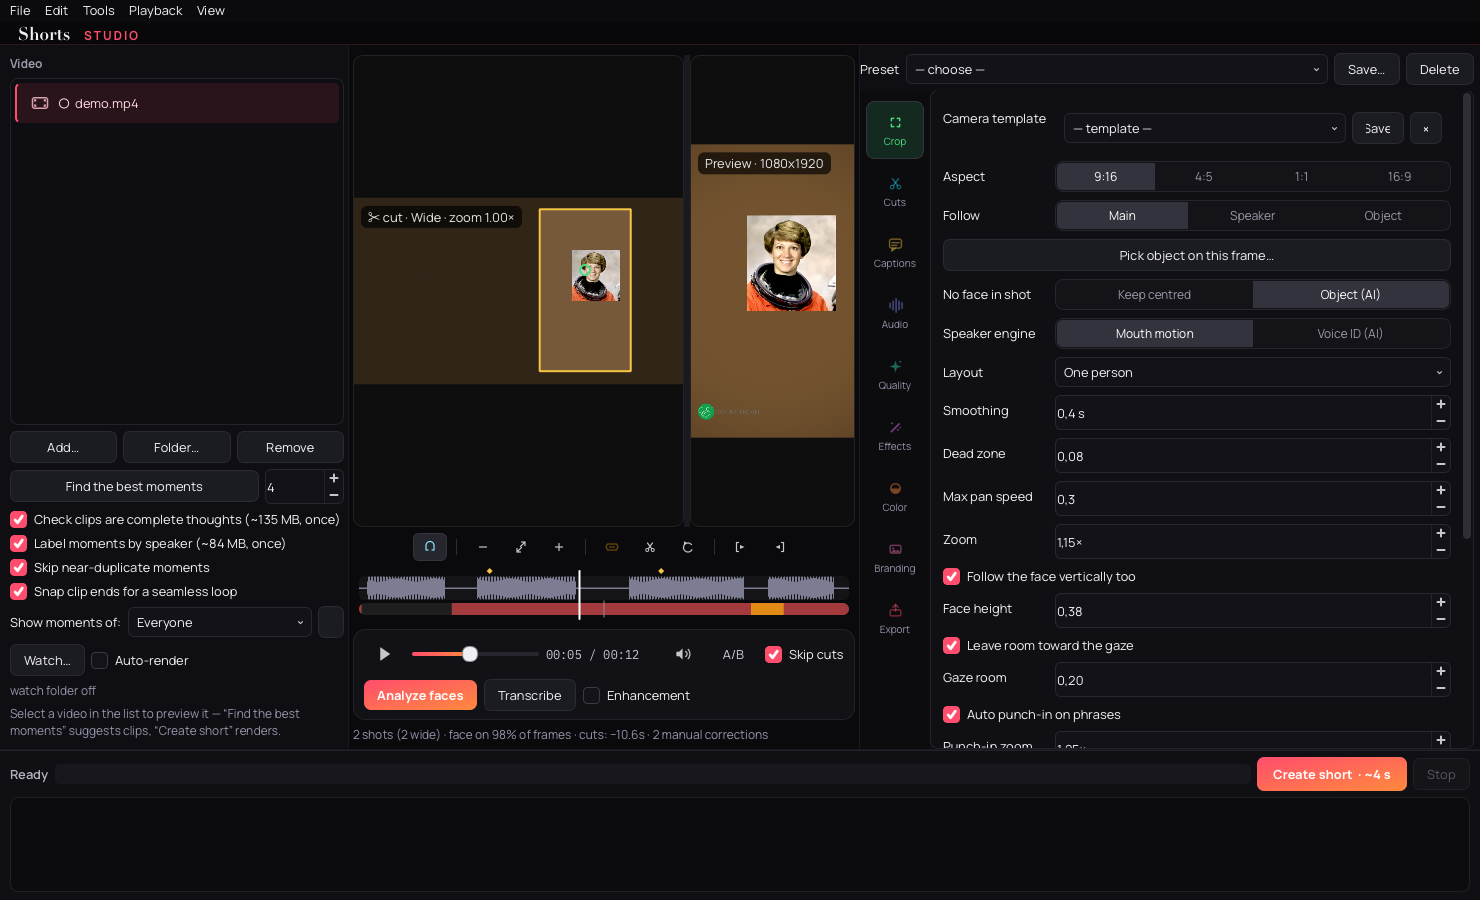
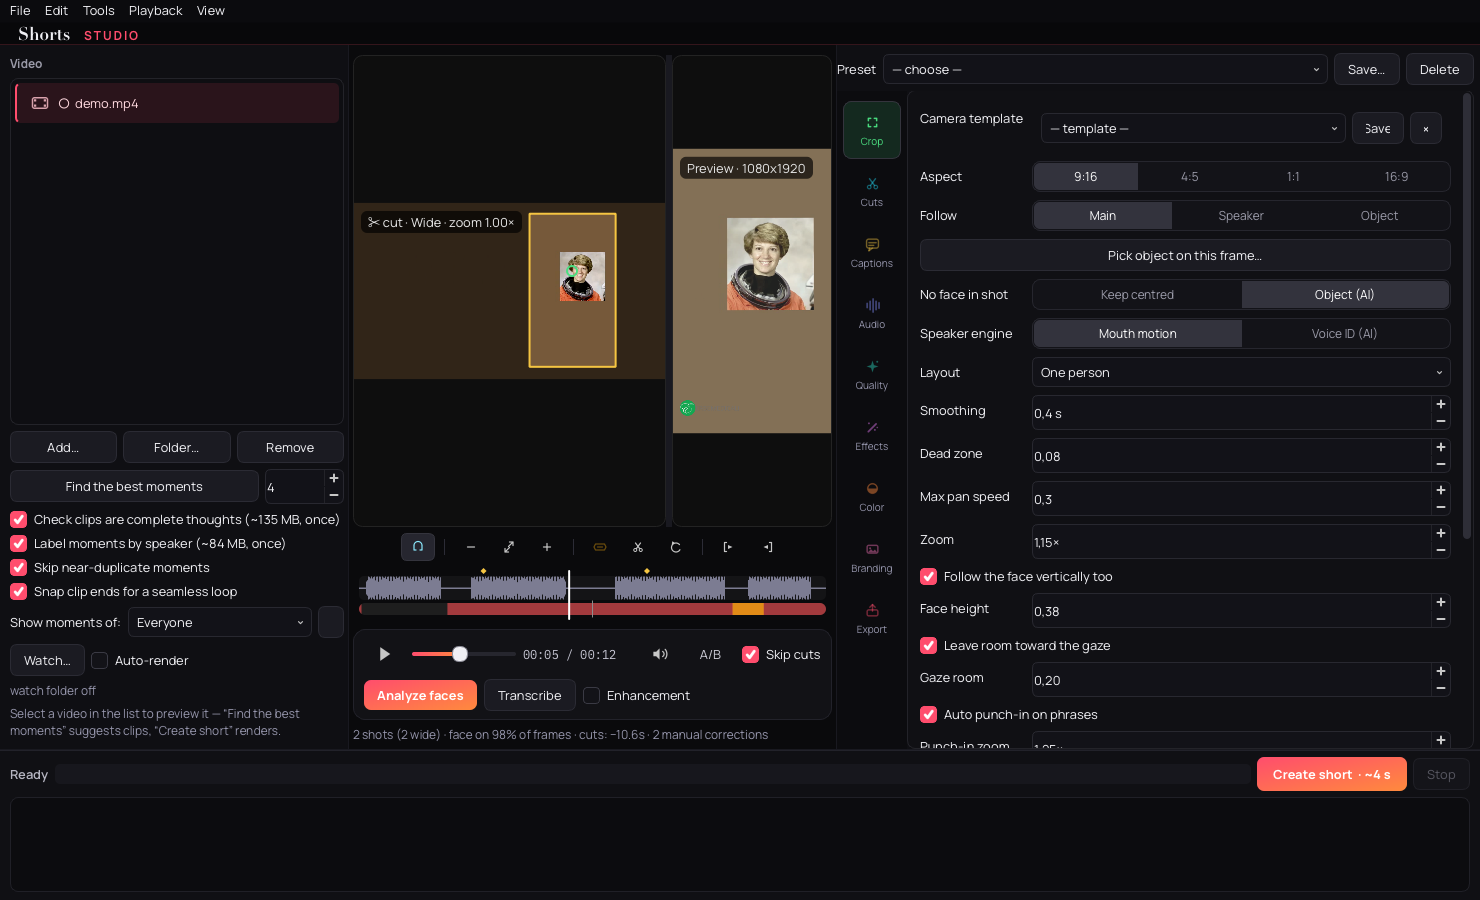
README: v0.8.5 section, 15 looks, timeline.gif with toolbar
Generated with [Devin](https://devin.ai)

diff --git a/scripts/shoot_ui.py b/scripts/shoot_ui.py
@@ -81,8 +81,8 @@ def band_frame(w, tl):
     org = tl.mapTo(w, QPointF(0, 0).toPoint())
     left = w.src_view.mapTo(w, QPointF(0, 0).toPoint()).x()
     right = (w.out_view.mapTo(w, QPointF(w.out_view.width(), 0).toPoint())).x()
-    top = max(0, org.y() - 8)
-    img = w.grab(QRect(left - 6, top, right - left + 12, 168)).toImage()
+    top = max(0, org.y() - 44)             # include the centred timeline toolbar
+    img = w.grab(QRect(left - 6, top, right - left + 12, 204)).toImage()
     img = img.convertToFormat(QImage.Format_RGBA8888)
     img = img.scaled(int(img.width() * 0.7), int(img.height() * 0.7),
                      Qt.KeepAspectRatio, Qt.SmoothTransformation)

diff --git a/README.md b/README.md
@@ -33,7 +33,20 @@ Automatic 16:9 → 9:16 reframe · word-by-word captions + punch-in · manual ti
 <i>Demo clips generated from your own footage — see <a href="docs/media/README.md">docs/media</a></i>
 </sub></p>
 
-## New in 0.8.0 — hands-off
+## New in 0.8.x — hands-off & a real timeline
+
+**0.8.5 — Timeline 2.0**
+
+- **Audio waveform lane** above the cut bar — dead air reads as flat stretches you can spot and cut at a glance
+- **Zoom & pan** — scroll to zoom into the exact cut (cursor-anchored), two-finger pan, middle-drag, zoom-to-fit; the waveform re-details at every level
+- **Resolve-style toolbar** centered above the timeline: magnet snapping, zoom −/fit/+, persistent **blade mode** (click to mark, click again to cut), cut, restore, mark in/out
+- **Frame-step & I/O** — `←`/`→` one frame (`Shift` = 1 s), `I`/`O` trim the clip at the playhead
+- **Silence snapping** — cuts snap to VAD speech boundaries, threshold scales with zoom
+- **Hover thumbnails** — rest the cursor for a source-frame preview + timecode
+- **9 new reel grades** — Urban, Teal & orange, Cyberpunk, Golden hour, Dreamy, Y2K digicam, Faded film, Midnight, Sunset (+7 new base looks)
+- **Open recent** projects menu · **learned render estimate** in the button (`Create 3 shorts · ~4 min`)
+
+**0.8.0**
 
 - **Watch folder** — drop a video into a watched folder and it's queued automatically; tick **Auto-render** and it renders with your current settings, hands-off
 - **Smarter best moments** — speaker-labelled clips (👤, rename to *Marco* with the ✎ and it sticks in the project), semantic **near-duplicate skipping**, **seamless-loop** end snapping, and **chapters export** for YouTube/CSV
@@ -127,7 +140,7 @@ No installer, no account, no admin password. Each AI feature downloads its model
 - **Slow motion ×2/×4** — **RIFE** invents real in-between frames, or instant FFmpeg blend
 - **Face restoration:** GPEN-256/512, GFPGAN, CodeFormer — only on faces worth restoring (size + frontality gates), faded in over a few frames, source tones preserved
 - **Skin-tone fix** (exportable `.cube` LUT) · **Beauty** with neural face-parsing mask
-- **Colour:** 14 looks + **your own .cube LUTs** + auto WB + full manual **grade** (temp, tint, EV, contrast, sat, shadows, highlights, vignette)
+- **Colour:** 15 looks + **your own .cube LUTs** + auto WB + full manual **grade** (temp, tint, EV, contrast, sat, shadows, highlights, vignette)
 - **Lift dark shots** — SG-LLIE or URetinex neural low-light
 - **Blur background** — RVM fast or **MODNet** quality matting, guided-filter edges
 - **Enhance** — fast sharpen or Real-ESRGAN upscaling, **colour-locked** to the source so the palette can't drift or flicker
